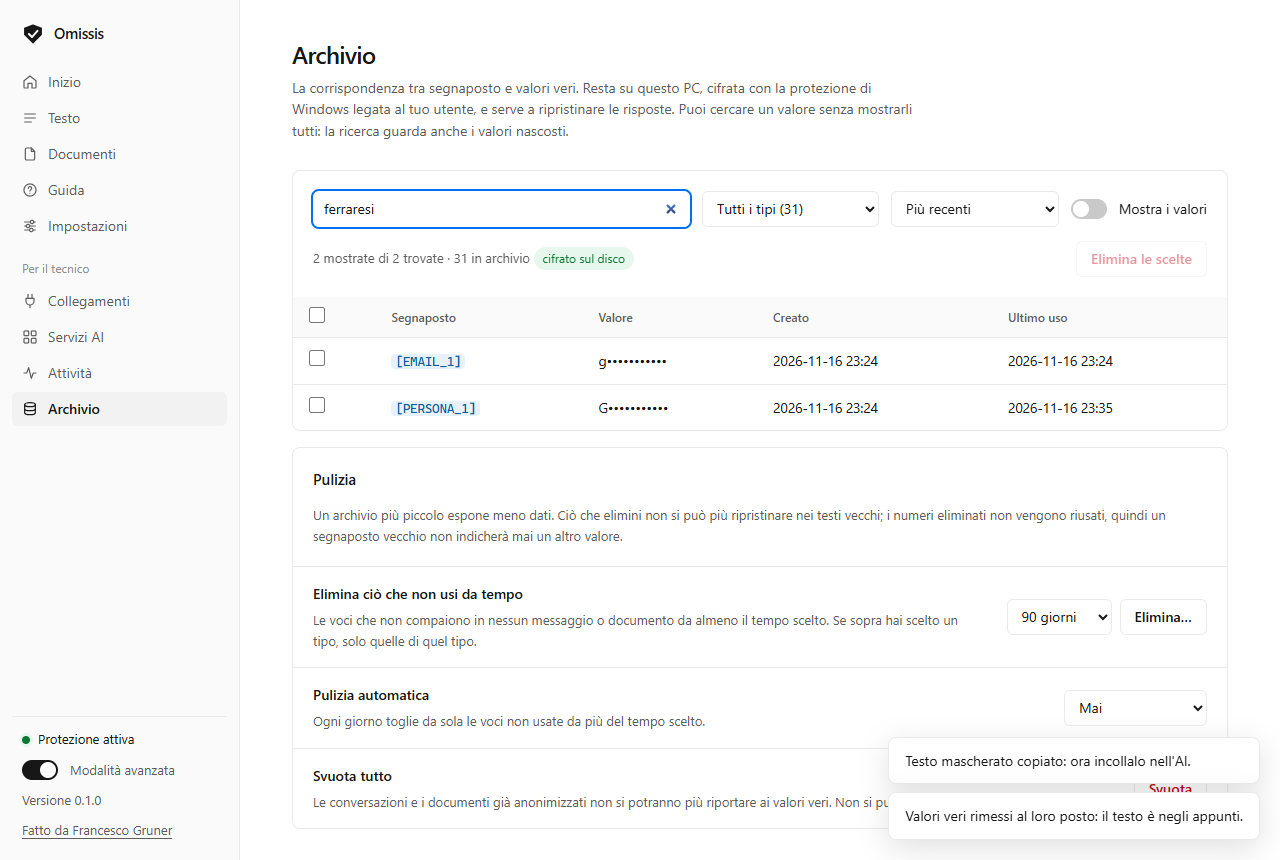
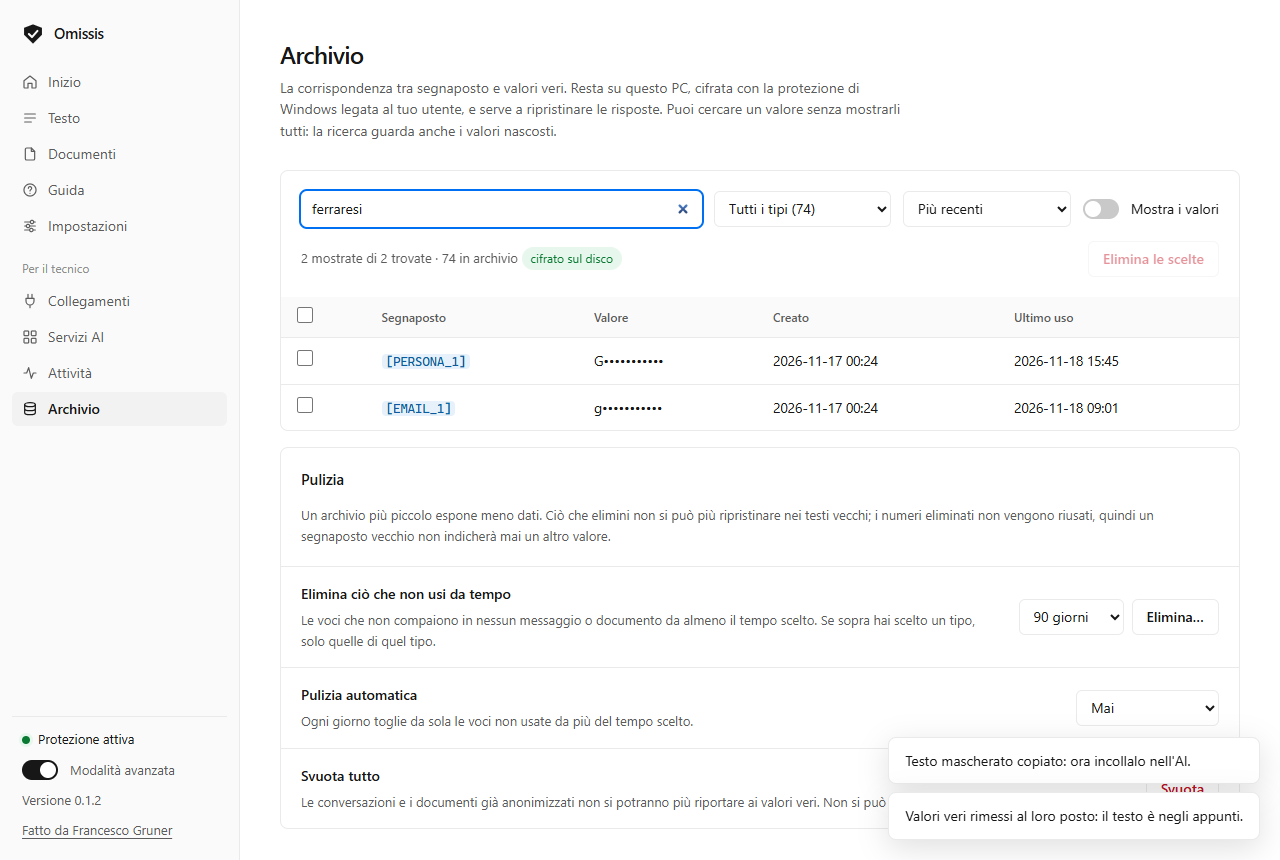
Roadmap: store submissions in review; refreshed panel screenshots
- README (EN/IT): Microsoft Store, Chrome Web Store and Edge Add-ons submitted on 18/11/2026 and in review; installer code signing listed on its own
- docs/screenshots: retaken from the 0.1.2 panel with made-up data

diff --git a/README.it.md b/README.it.md
@@ -235,7 +235,8 @@ Modello di minaccia e segnalazioni: [SECURITY.md](SECURITY.md).
 - [x] App desktop: ChatGPT, Perplexity, Microsoft Copilot, Antigravity
 - [x] Terminale: Claude Code, Codex, Antigravity CLI
 - [ ] Verifica dal vivo dell'app desktop di Claude
-- [ ] Firma del codice dell'installer e Microsoft Store; estensione negli store dei browser
+- [ ] Microsoft Store, Chrome Web Store ed Edge Add-ons: inviati il 18/11/2026, in revisione
+- [ ] Firma del codice dell'installer (oggi Windows mostra l'avviso di SmartScreen)
 - [ ] Messaggistica nativa del browser al posto del collegamento HTTP locale per l'estensione
 - [ ] Firefox
 - [ ] Scansioni restituite come immagine oscurata; ripristino automatico dei file scaricati dalle chat

diff --git a/README.md b/README.md
@@ -232,7 +232,8 @@ See [SECURITY.md](SECURITY.md) for the threat model and how to report a problem.
 - [x] Desktop apps: ChatGPT, Perplexity, Microsoft Copilot, Antigravity
 - [x] Terminal: Claude Code, Codex, Antigravity CLI
 - [ ] Live validation of the Claude desktop app
-- [ ] Code signing for the installer and Microsoft Store publication; extension in the browser stores
+- [ ] Microsoft Store, Chrome Web Store and Edge Add-ons: submitted on 18/11/2026, in review
+- [ ] Code signing for the installer (Windows shows the SmartScreen warning today)
 - [ ] Native messaging instead of the local HTTP bridge for the extension
 - [ ] Firefox
 - [ ] Redacted image output for scans; automatic restore of files downloaded from chats
